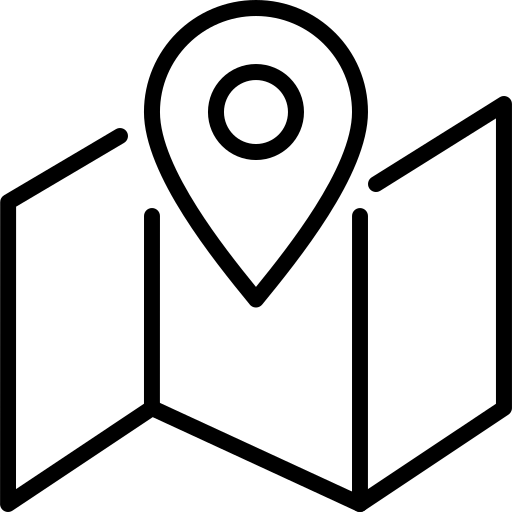
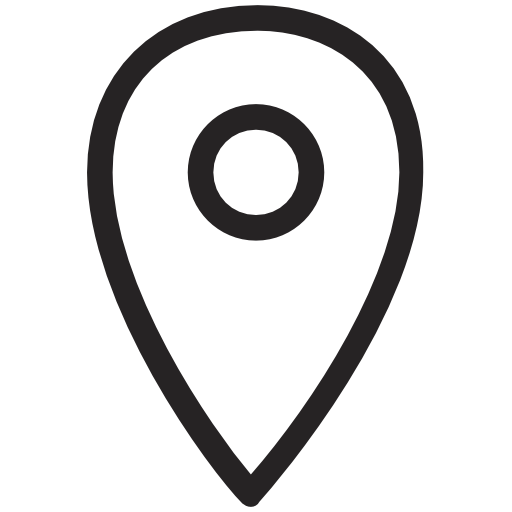
Add map modal

diff --git a/client/src/components/forms/shopReelForm.tsx b/client/src/components/forms/shopReelForm.tsx
@@ -7,14 +7,17 @@ import BaseForm, {
 } from "./components/baseForm";
 import FileInput from "./components/fileInput";
 import FormInput, { FormInputGroup } from "./components/formInput";
+import MapInput from "./components/mapInput";
+
+import Pin from "@images/location_pin.png";
 
 interface FormState {
   file: File | null;
   apiKey: string;
   searchTerm: string;
-  latitude: string;
-  longitude: string;
-  maxResults: string;
+  latitude: number;
+  longitude: number;
+  maxResults: number;
 }
 
 interface ErrorState {
@@ -28,6 +31,7 @@ interface ErrorState {
 
 interface State extends BaseState {
   activeTab: "manual" | "file";
+  showMap: boolean;
   form: FormState;
   errors: ErrorState;
 }
@@ -57,13 +61,14 @@ export default class ShopReelForm extends BaseForm<BaseProps, State> {
   protected readonly defaultState: State = {
     jobId: null,
     activeTab: "manual",
+    showMap: false,
     form: {
       file: null,
       apiKey: "",
       searchTerm: "Fly Fishing Shops",
-      latitude: "44.427963",
-      longitude: "-110.588455",
-      maxResults: "100",
+      latitude: 44.427963,
+      longitude: -110.588455,
+      maxResults: 100,
     },
     errors: {},
   };
@@ -114,16 +119,13 @@ export default class ShopReelForm extends BaseForm<BaseProps, State> {
 
     // Validate number inputs
     if (fieldKey === "maxResults") {
-      const val = parseInt(value, 10);
-      return val < 20 || val > 120;
+      return value < 20 || value > 120;
     }
     if (fieldKey === "latitude") {
-      const val = parseFloat(value);
-      return val < -90 || val > 90;
+      return value < -90 || value > 90;
     }
     if (fieldKey === "longitude") {
-      const val = parseFloat(value);
-      return val < -180 || val > 180;
+      return value < -180 || value > 180;
     }
     return false;
   }
@@ -207,7 +209,9 @@ export default class ShopReelForm extends BaseForm<BaseProps, State> {
                   placeholder="Latitude"
                   title="Latitude in decimal degrees"
                   step="0.000001"
-                  onChange={(val) => this.updateState("form", "latitude", val)}
+                  onChange={(val) =>
+                    this.updateState("form", "latitude", parseFloat(val))
+                  }
                   noWrapper
                 />
                 <FormInput
@@ -217,24 +221,33 @@ export default class ShopReelForm extends BaseForm<BaseProps, State> {
                   title="Longitude in decimal degrees"
                   step="0.000001"
                   value={this.state.form.longitude}
-                  onChange={(val) => this.updateState("form", "longitude", val)}
+                  onChange={(val) =>
+                    this.updateState("form", "longitude", parseFloat(val))
+                  }
                   noWrapper
                 />
-                {/*  TODO: Fix this for the location picker */}
-                {/*<button*/}
-                {/*  type="button"*/}
-                {/*  className="input-group-text location-picker"*/}
-                {/*  title="Open map to select location"*/}
-                {/*  data-bs-placement="top"*/}
-                {/*  data-bs-toggle="modal"*/}
-                {/*  data-bs-target="#mapModal"*/}
-                {/*>*/}
-                {/*  <img*/}
-                {/*    src="/assets/images/location_pin.png"*/}
-                {/*    alt="Location Pin"*/}
-                {/*    style={{ height: 1 }}*/}
-                {/*  />*/}
-                {/*</button>*/}
+                <button
+                  type="button"
+                  className="btn btn-light input-group-text"
+                  onClick={() => this.setState({ showMap: true })}
+                >
+                  <img
+                    src={Pin}
+                    alt="location pin"
+                    style={{ width: 20, height: 20 }}
+                  />
+                </button>
+
+                <MapInput
+                  show={this.state.showMap}
+                  onClose={() => this.setState({ showMap: false })}
+                  latitude={this.state.form.latitude}
+                  longitude={this.state.form.longitude}
+                  onChange={(newLat, newLng) => {
+                    this.updateState("form", "latitude", newLat);
+                    this.updateState("form", "longitude", newLng);
+                  }}
+                />
               </FormInputGroup>
 
               <FormInput
@@ -244,7 +257,9 @@ export default class ShopReelForm extends BaseForm<BaseProps, State> {
                 title="Maximum number of results"
                 step="20"
                 value={this.state.form.maxResults}
-                onChange={(val) => this.updateState("form", "maxResults", val)}
+                onChange={(val) =>
+                  this.updateState("form", "maxResults", parseInt(val, 10))
+                }
                 error={this.state.errors.maxResultsError}
               />
             </div>

diff --git a/client/src/components/forms/components/mapInput.tsx b/client/src/components/forms/components/mapInput.tsx
@@ -1,0 +1,98 @@
+import {
+  MapContainer,
+  TileLayer,
+  Marker,
+  useMapEvents,
+  useMap,
+} from "react-leaflet";
+import "leaflet/dist/leaflet.css";
+import L from "leaflet";
+import { useState, useEffect } from "react";
+
+interface MapModalProps {
+  show: boolean;
+  onClose: () => void;
+  latitude: number;
+  longitude: number;
+  onChange: (lat: number, lng: number) => void;
+}
+
+export default function MapInput({
+  show,
+  onClose,
+  latitude,
+  longitude,
+  onChange,
+}: MapModalProps) {
+  const [position, setPosition] = useState<[number, number]>([
+    latitude,
+    longitude,
+  ]);
+
+  function LocationSelector() {
+    useMapEvents({
+      click(e) {
+        setPosition([e.latlng.lat, e.latlng.lng]);
+        onChange(e.latlng.lat, e.latlng.lng);
+        onClose(); // auto-close modal after picking
+      },
+    });
+    return null;
+  }
+
+  // Component to fix map resizing when modal opens
+  function ResizeOnShow({ active }: { active: boolean }) {
+    const map = useMap();
+    useEffect(() => {
+      if (active) {
+        setTimeout(() => {
+          map.invalidateSize();
+          map.setView(position); // recenter properly
+        }, 200); // small delay for modal animation
+      }
+    }, [active, map]);
+    return null;
+  }
+
+  return (
+    <div
+      className={`modal fade ${show ? "show d-block" : ""}`}
+      tabIndex={-1}
+      role="dialog"
+    >
+      <div className="modal-dialog modal-lg modal-dialog-centered">
+        <div className="modal-content">
+          <div className="modal-header">
+            <h5 className="modal-title">Select a Location</h5>
+            <button type="button" className="btn-close" onClick={onClose} />
+          </div>
+          <div className="modal-body p-0">
+            <MapContainer
+              center={position}
+              zoom={10}
+              style={{ height: "500px", width: "100%" }}
+            >
+              <TileLayer
+                url="https://{s}.tile.openstreetmap.org/{z}/{x}/{y}.png"
+                attribution="Map data © OpenStreetMap contributors"
+              />
+              <Marker
+                position={position}
+                draggable={true}
+                eventHandlers={{
+                  dragend: (e) => {
+                    const latlng = (e.target as L.Marker).getLatLng();
+                    setPosition([latlng.lat, latlng.lng]);
+                    onChange(latlng.lat, latlng.lng);
+                  },
+                }}
+              />
+              <LocationSelector />
+              <ResizeOnShow active={show} />
+            </MapContainer>
+          </div>
+        </div>
+      </div>
+    </div>
+  );
+}

diff --git a/client/src/assets/styles/style.scss b/client/src/assets/styles/style.scss
@@ -135,6 +135,15 @@ button {
   margin-right: 0.25rem;
 }
 
+.input-group {
+  .btn {
+    border-bottom-right-radius: 0.375rem !important; // override Bootstrap flattening
+    border-top-right-radius: 0.375rem !important;
+  }
+}
+
+
+
 // =====================================
 // File Input Styling
 // =====================================
